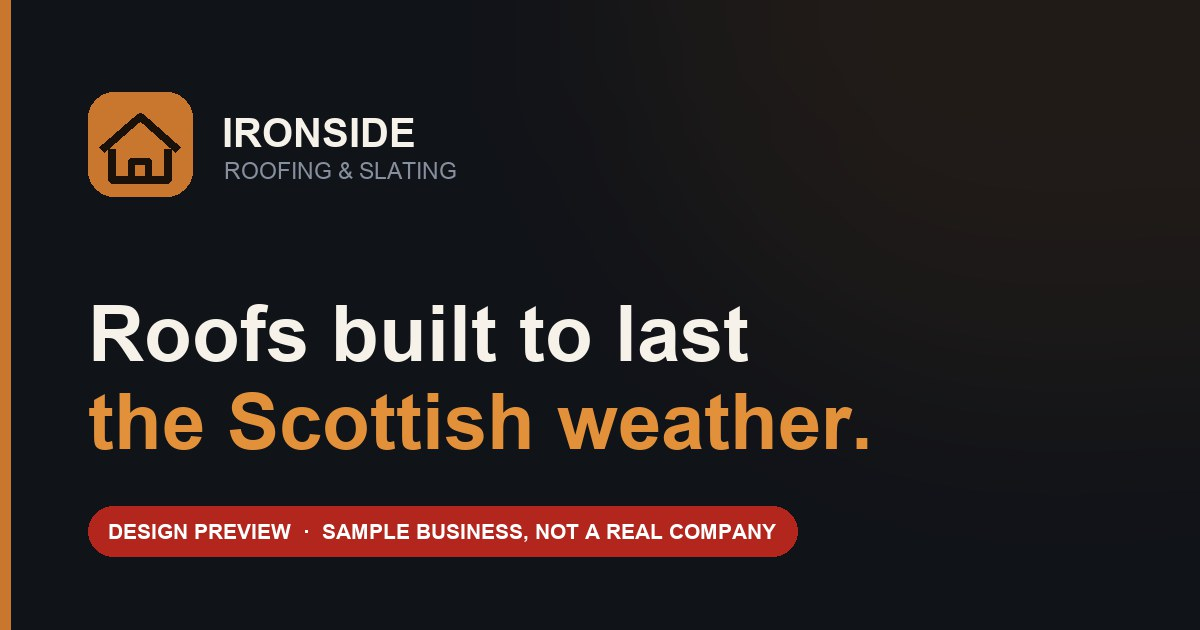
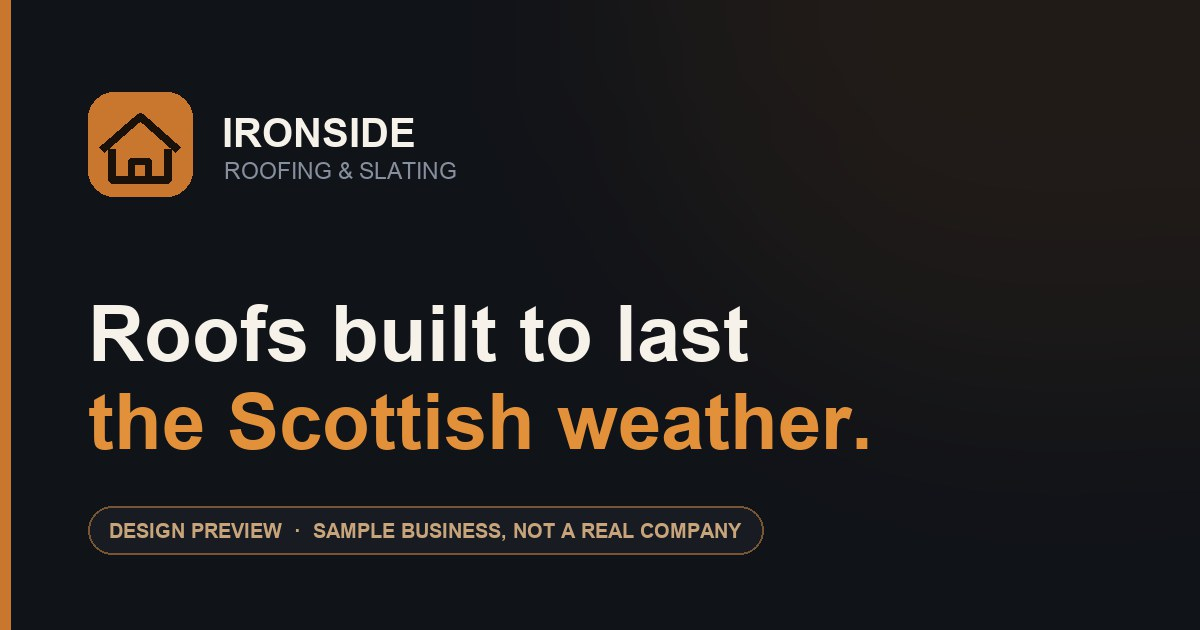
Tone down placeholder and demo-marker styling
The bright red placeholders and ribbon were pulling attention off the
design and reading as alarms on a page meant to sell.

- .ph-flag is now [BRACKETED] monospace in a dashed outline, built on
  currentColor so it adapts to both the dark slate and light paper
  sections instead of fighting them
- demo ribbon and 404 ribbon are a neutral translucent bar with a copper
  hairline and copper lead-in, matching the site rather than warning
- og-image label restyled as an outlined copper pill
- no red left anywhere in the four pages

The class, not the colour, is what protects a launch: ONBOARDING.md and
README now say so explicitly, and the launch grep is unchanged.

Changed region(s): [[0.0617, 0.7841, 0.6783, 0.9048]]

diff --git a/index.html b/index.html
@@ -659,16 +659,26 @@ footer{background:var(--slate-850);color:#aab1bd;padding:70px 0 34px;border-top:
 .ba-handle:focus-visible{outline-offset:0;}
 .ba-handle:focus-visible .ba-knob{box-shadow:0 0 0 4px rgba(201,119,46,.55);}
 
-/* ===================== TEMPLATE PLACEHOLDERS — FAIL LOUDLY =====================
+/* ======================== TEMPLATE PLACEHOLDERS ========================
    Any value that must be verified against client evidence before launch is
-   wrapped in .ph-flag. The point is that these are impossible to mistake for
-   real content: the risk in a template business isn't inventing a claim, it's a
-   plausible-looking placeholder surviving into a live site because nobody
-   noticed. Ugly on purpose. Grep for "ph-flag" and "[" before any launch.
-   ============================================================================= */
-.ph-flag{display:inline-block;background:#b3261e;color:#fff;font-weight:800;
-  font-size:.78em;letter-spacing:.03em;padding:1px 7px;border-radius:4px;
-  text-transform:uppercase;white-space:nowrap;}
+   wrapped in .ph-flag. It has to be unmistakably a placeholder rather than
+   real content — the risk in a template business isn't inventing a claim,
+   it's a plausible-looking placeholder surviving into a live site because
+   nobody noticed.
+
+   Deliberately quiet: a dashed outline, monospace and the [BRACKETS] read as
+   "not filled in yet" without alarming a prospect or pulling attention off
+   the design. The real safeguard at launch is the grep in ONBOARDING.md, not
+   the colour.
+
+   Colours come from currentColor so this works unchanged on the dark slate
+   sections and the light paper ones.
+   ======================================================================= */
+.ph-flag{display:inline-block;
+  font-family:ui-monospace,SFMono-Regular,Menlo,Consolas,monospace;
+  font-size:.8em;font-weight:600;letter-spacing:0;text-transform:none;
+  padding:.1em .5em;border-radius:4px;white-space:nowrap;
+  border:1px dashed currentColor;opacity:.55;}
 
 /* ---------- footer statutory disclosures ---------- */
 /* No border here — .foot-grid already supplies the dividing rule above. */
@@ -683,11 +693,14 @@ footer{background:var(--slate-850);color:#aab1bd;padding:70px 0 34px;border-top:
    ONBOARDING.md is met.
    ========================================================================= */
 .demo-ribbon{position:fixed;z-index:9999;bottom:0;left:0;right:0;
-  background:#b3261e;color:#fff;text-align:center;
-  font-size:.78rem;font-weight:700;letter-spacing:.02em;
-  padding:7px 14px;line-height:1.35;
-  box-shadow:0 -2px 14px rgba(0,0,0,.28);}
-.demo-ribbon b{font-weight:800;}
+  background:rgba(21,25,32,.94);
+  -webkit-backdrop-filter:blur(10px);backdrop-filter:blur(10px);
+  color:#b9c0cb;text-align:center;
+  border-top:1px solid rgba(226,145,58,.42);
+  font-size:.78rem;font-weight:600;letter-spacing:.01em;
+  padding:8px 14px;line-height:1.35;
+  box-shadow:0 -2px 18px rgba(0,0,0,.22);}
+.demo-ribbon b{font-weight:800;color:var(--copper-bright);}
 /* Drop the secondary sentence on narrow screens so the ribbon stays one or two
    lines instead of growing tall enough to cover the footer. */
 @media (max-width:640px){

diff --git a/privacy.html b/privacy.html
@@ -6,7 +6,7 @@
 <meta name="robots" content="noindex, nofollow" />
 <title>Privacy Policy | Ironside Roofing &amp; Slating (design preview)</title>
 <style>
-  :root{--slate-900:#101318;--paper:#f6f2ea;--copper-bright:#e2913a;--ink-soft:#9aa2ad;--red:#b3261e;}
+  :root{--slate-900:#101318;--paper:#f6f2ea;--copper-bright:#e2913a;--ink-soft:#9aa2ad;}
   *{box-sizing:border-box;}
   body{margin:0;background:var(--slate-900);color:var(--paper);
     font-family:system-ui,-apple-system,Segoe UI,Roboto,sans-serif;line-height:1.6;
@@ -22,13 +22,22 @@
   .back{display:inline-block;margin-bottom:28px;font-weight:700;}
   footer{border-top:1px solid rgba(255,255,255,.08);margin-top:48px;padding-top:20px;
     font-size:.85rem;color:var(--ink-soft);}
-  /* Placeholders are deliberately impossible to mistake for real content. */
-  .ph-flag{display:inline-block;background:var(--red);color:#fff;font-weight:800;
-    font-size:.78em;letter-spacing:.03em;padding:1px 7px;border-radius:4px;
-    text-transform:uppercase;}
-  .demo-ribbon{position:fixed;bottom:0;left:0;right:0;background:var(--red);color:#fff;
-    text-align:center;font-size:.78rem;font-weight:700;padding:7px 14px;line-height:1.35;
-    box-shadow:0 -2px 14px rgba(0,0,0,.28);}
+  /* Quiet placeholder styling — dashed outline + monospace + [BRACKETS] reads as
+     "not filled in yet" without alarming a reader. currentColor so it adapts to
+     whatever it sits on. The launch safeguard is the grep in ONBOARDING.md. */
+  .ph-flag{display:inline-block;
+    font-family:ui-monospace,SFMono-Regular,Menlo,Consolas,monospace;
+    font-size:.8em;font-weight:600;letter-spacing:0;text-transform:none;
+    padding:.1em .5em;border-radius:4px;
+    border:1px dashed currentColor;opacity:.55;}
+  .demo-ribbon{position:fixed;bottom:0;left:0;right:0;
+    background:rgba(21,25,32,.94);
+    -webkit-backdrop-filter:blur(10px);backdrop-filter:blur(10px);
+    color:#b9c0cb;text-align:center;
+    border-top:1px solid rgba(226,145,58,.42);
+    font-size:.78rem;font-weight:600;padding:8px 14px;line-height:1.35;
+    box-shadow:0 -2px 18px rgba(0,0,0,.22);}
+  .demo-ribbon b{font-weight:800;color:var(--copper-bright);}
 </style>
 </head>
 <body>

diff --git a/terms.html b/terms.html
@@ -6,7 +6,7 @@
 <meta name="robots" content="noindex, nofollow" />
 <title>Terms of Use | Ironside Roofing &amp; Slating (design preview)</title>
 <style>
-  :root{--slate-900:#101318;--paper:#f6f2ea;--copper-bright:#e2913a;--ink-soft:#9aa2ad;--red:#b3261e;}
+  :root{--slate-900:#101318;--paper:#f6f2ea;--copper-bright:#e2913a;--ink-soft:#9aa2ad;}
   *{box-sizing:border-box;}
   body{margin:0;background:var(--slate-900);color:var(--paper);
     font-family:system-ui,-apple-system,Segoe UI,Roboto,sans-serif;line-height:1.6;
@@ -22,12 +22,22 @@
   .back{display:inline-block;margin-bottom:28px;font-weight:700;}
   footer{border-top:1px solid rgba(255,255,255,.08);margin-top:48px;padding-top:20px;
     font-size:.85rem;color:var(--ink-soft);}
-  .ph-flag{display:inline-block;background:var(--red);color:#fff;font-weight:800;
-    font-size:.78em;letter-spacing:.03em;padding:1px 7px;border-radius:4px;
-    text-transform:uppercase;}
-  .demo-ribbon{position:fixed;bottom:0;left:0;right:0;background:var(--red);color:#fff;
-    text-align:center;font-size:.78rem;font-weight:700;padding:7px 14px;line-height:1.35;
-    box-shadow:0 -2px 14px rgba(0,0,0,.28);}
+  /* Quiet placeholder styling — dashed outline + monospace + [BRACKETS] reads as
+     "not filled in yet" without alarming a reader. currentColor so it adapts to
+     whatever it sits on. The launch safeguard is the grep in ONBOARDING.md. */
+  .ph-flag{display:inline-block;
+    font-family:ui-monospace,SFMono-Regular,Menlo,Consolas,monospace;
+    font-size:.8em;font-weight:600;letter-spacing:0;text-transform:none;
+    padding:.1em .5em;border-radius:4px;
+    border:1px dashed currentColor;opacity:.55;}
+  .demo-ribbon{position:fixed;bottom:0;left:0;right:0;
+    background:rgba(21,25,32,.94);
+    -webkit-backdrop-filter:blur(10px);backdrop-filter:blur(10px);
+    color:#b9c0cb;text-align:center;
+    border-top:1px solid rgba(226,145,58,.42);
+    font-size:.78rem;font-weight:600;padding:8px 14px;line-height:1.35;
+    box-shadow:0 -2px 18px rgba(0,0,0,.22);}
+  .demo-ribbon b{font-weight:800;color:var(--copper-bright);}
 </style>
 </head>
 <body>

diff --git a/404.html b/404.html
@@ -25,9 +25,13 @@
     transition:background .25s ease,transform .25s ease;}
   .btn:hover{background:var(--copper-bright);transform:translateY(-2px);}
   .btn:focus-visible{outline:3px solid var(--copper-bright);outline-offset:3px;}
-  .ribbon{position:fixed;bottom:0;left:0;right:0;background:#b3261e;color:#fff;
-    font-size:.76rem;font-weight:700;padding:7px 14px;line-height:1.35;
-    box-shadow:0 -2px 14px rgba(0,0,0,.28);}
+  .ribbon{position:fixed;bottom:0;left:0;right:0;
+    background:rgba(21,25,32,.94);
+    -webkit-backdrop-filter:blur(10px);backdrop-filter:blur(10px);
+    color:#b9c0cb;border-top:1px solid rgba(226,145,58,.42);
+    font-size:.76rem;font-weight:600;padding:8px 14px;line-height:1.35;
+    box-shadow:0 -2px 18px rgba(0,0,0,.22);}
+  .ribbon b{color:var(--copper-bright);font-weight:800;}
 </style>
 </head>
 <body>

diff --git a/ONBOARDING.md b/ONBOARDING.md
@@ -84,11 +84,15 @@ for their solicitor, not something you draft.
 ## Two structural rules
 
 **1. Make the template fail loudly.**
-Every unverified value is wrapped in `.ph-flag`, which renders as a bright red
-uppercase tag. They are ugly on purpose. The risk in a template business isn't
-that you'd invent a claim — it's that a *plausible-looking* placeholder survives
-into a live site because nobody noticed it was a placeholder. Never replace a
-placeholder with a realistic-looking default.
+Every unverified value is wrapped in `.ph-flag`, which renders as `[BRACKETED]`
+monospace text in a dashed outline — clearly unfinished, but quiet enough not to
+pull a prospect's attention off the design.
+
+The risk in a template business isn't that you'd invent a claim — it's that a
+*plausible-looking* placeholder survives into a live site because nobody noticed
+it was a placeholder. So the rule is about the **class**, not the colour: keep
+`.ph-flag` on anything unverified, and never replace a placeholder with a
+realistic-looking default. The grep below is what actually catches them.
 
 Before any launch:
 

diff --git a/README.md b/README.md
@@ -26,8 +26,10 @@ publishing, and a launch checklist covering the repo, the Cloudflare account
 settings, and verification.
 
 Short version: values that need verifying are wrapped in `.ph-flag` and render as
-bright red uppercase tags. **Never replace one with a realistic-looking default** —
-replace it with confirmed client information, or remove the claim.
+`[BRACKETED]` monospace text in a dashed outline. **Never replace one with a
+realistic-looking default** — replace it with confirmed client information, or
+remove the claim. The safeguard at launch is the `grep` in `ONBOARDING.md`, not
+the styling, so keep the class on anything unverified even if you restyle it.
 
 ## Two workflow rules
 
